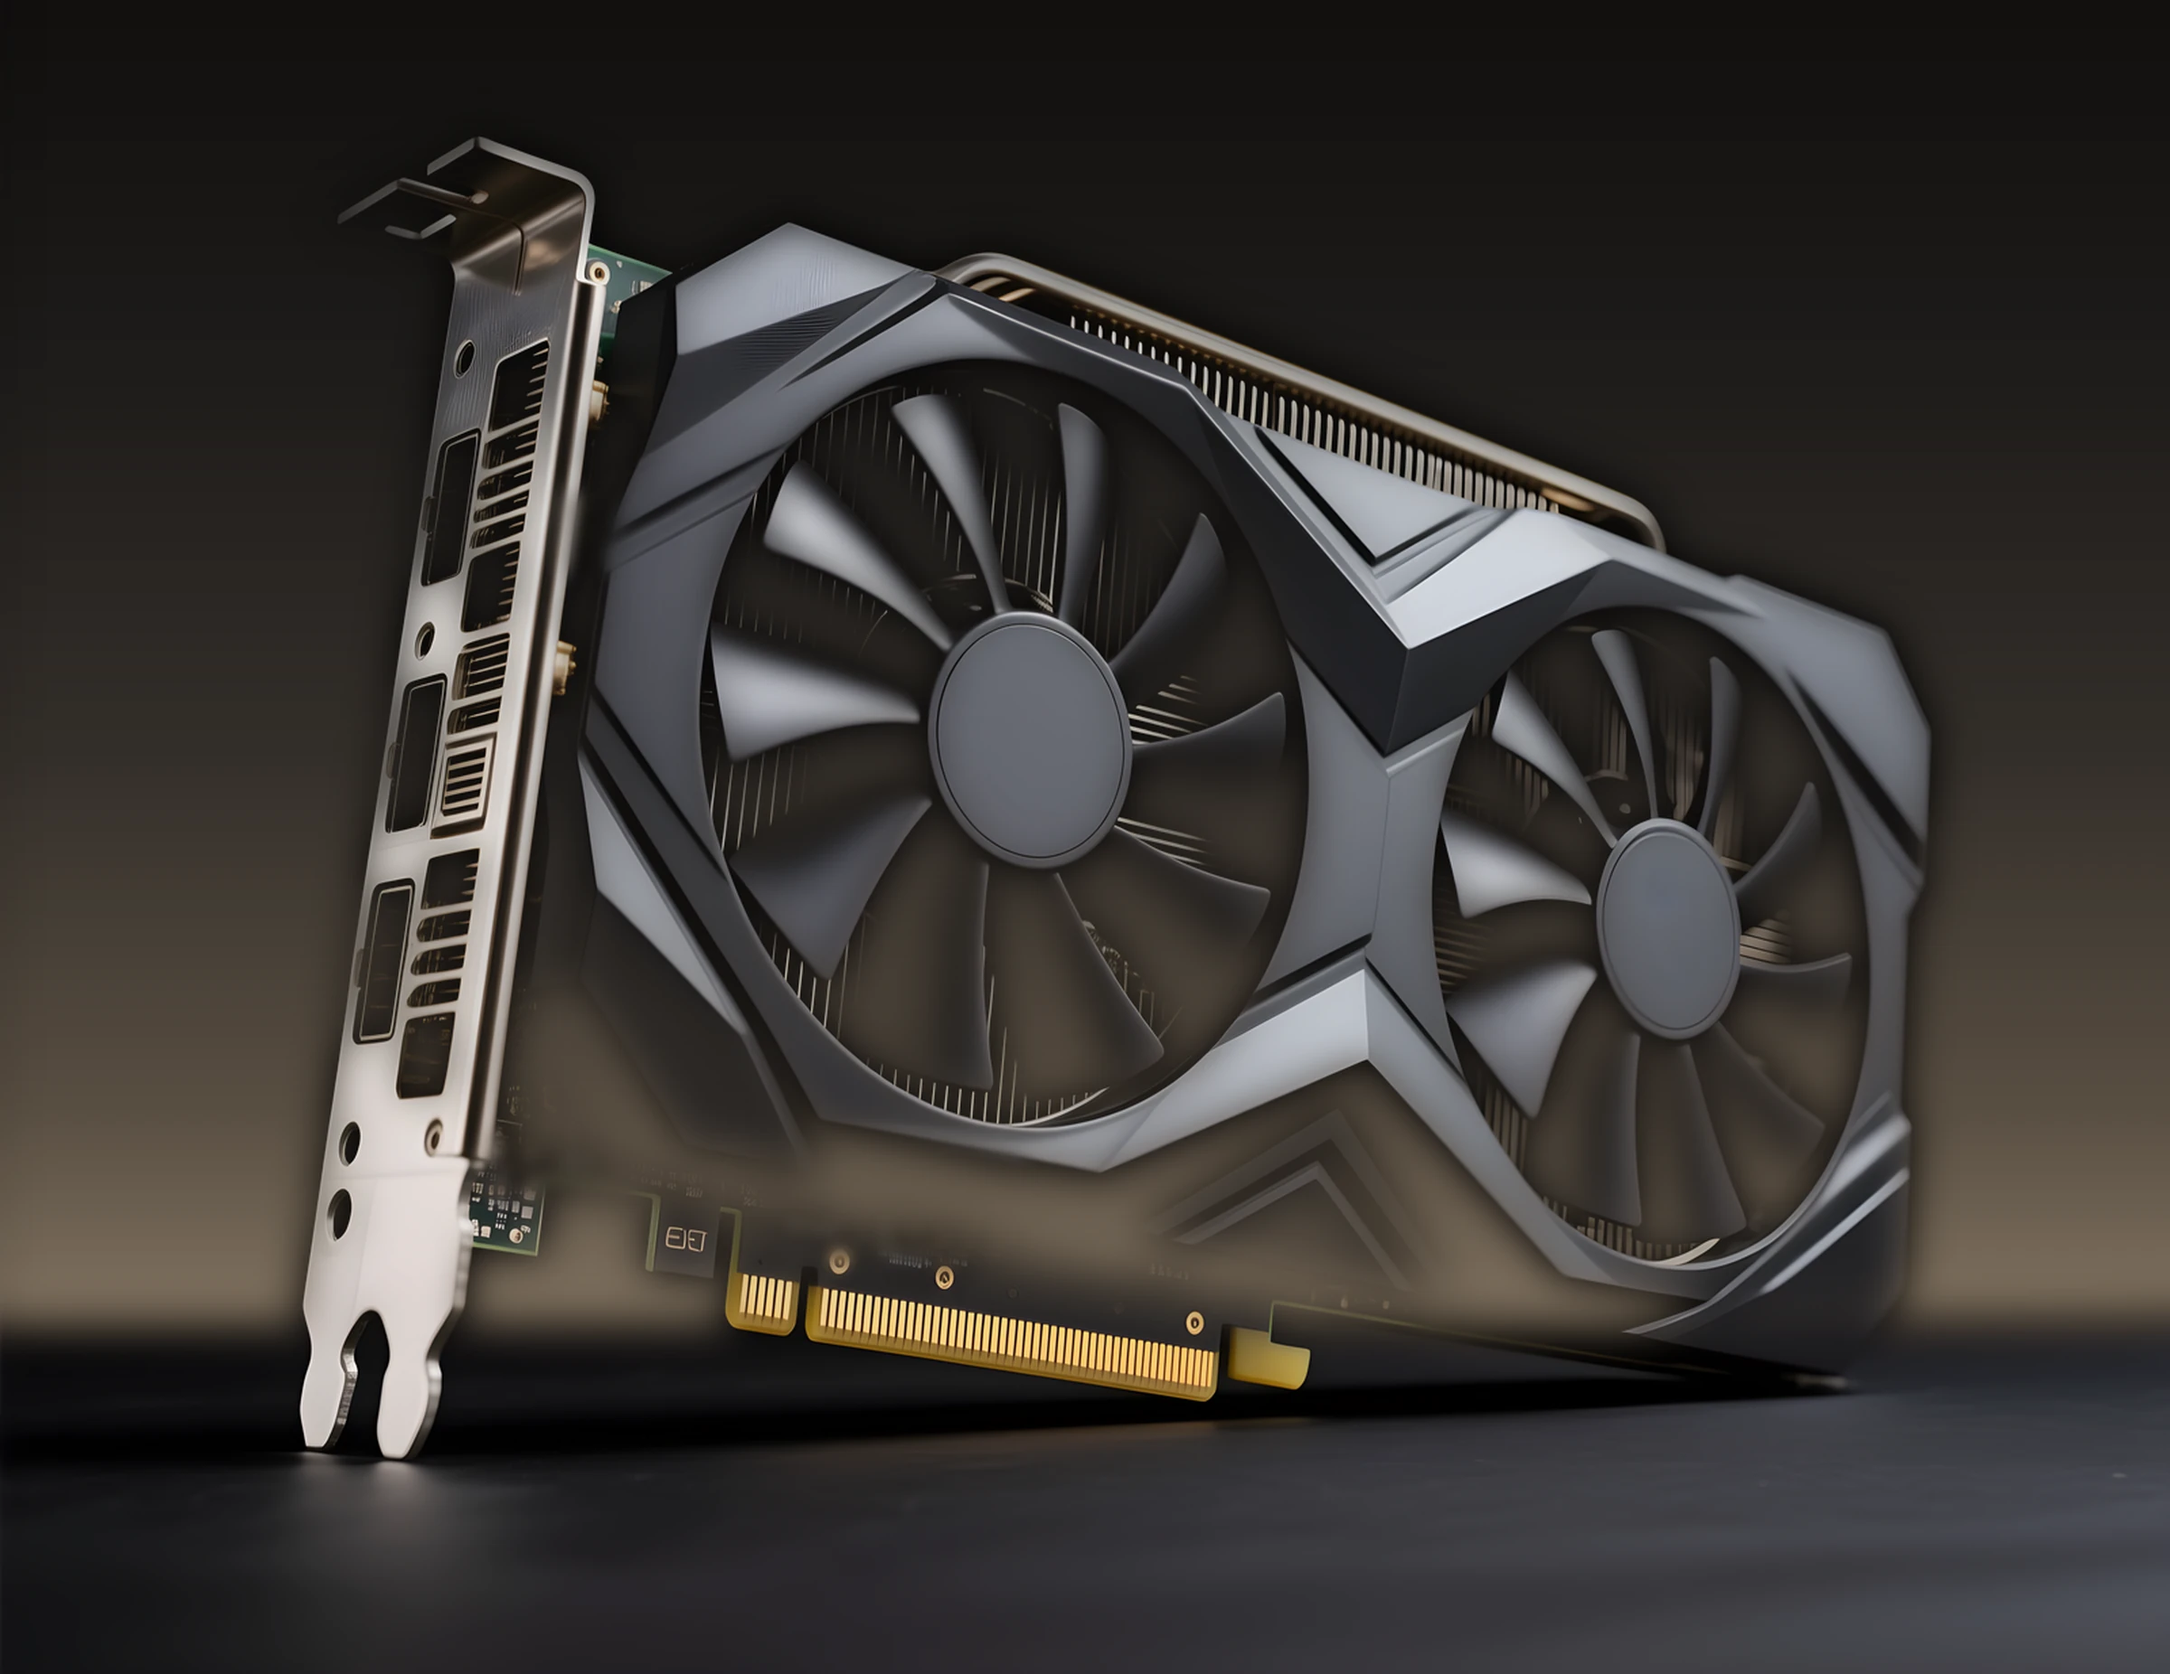
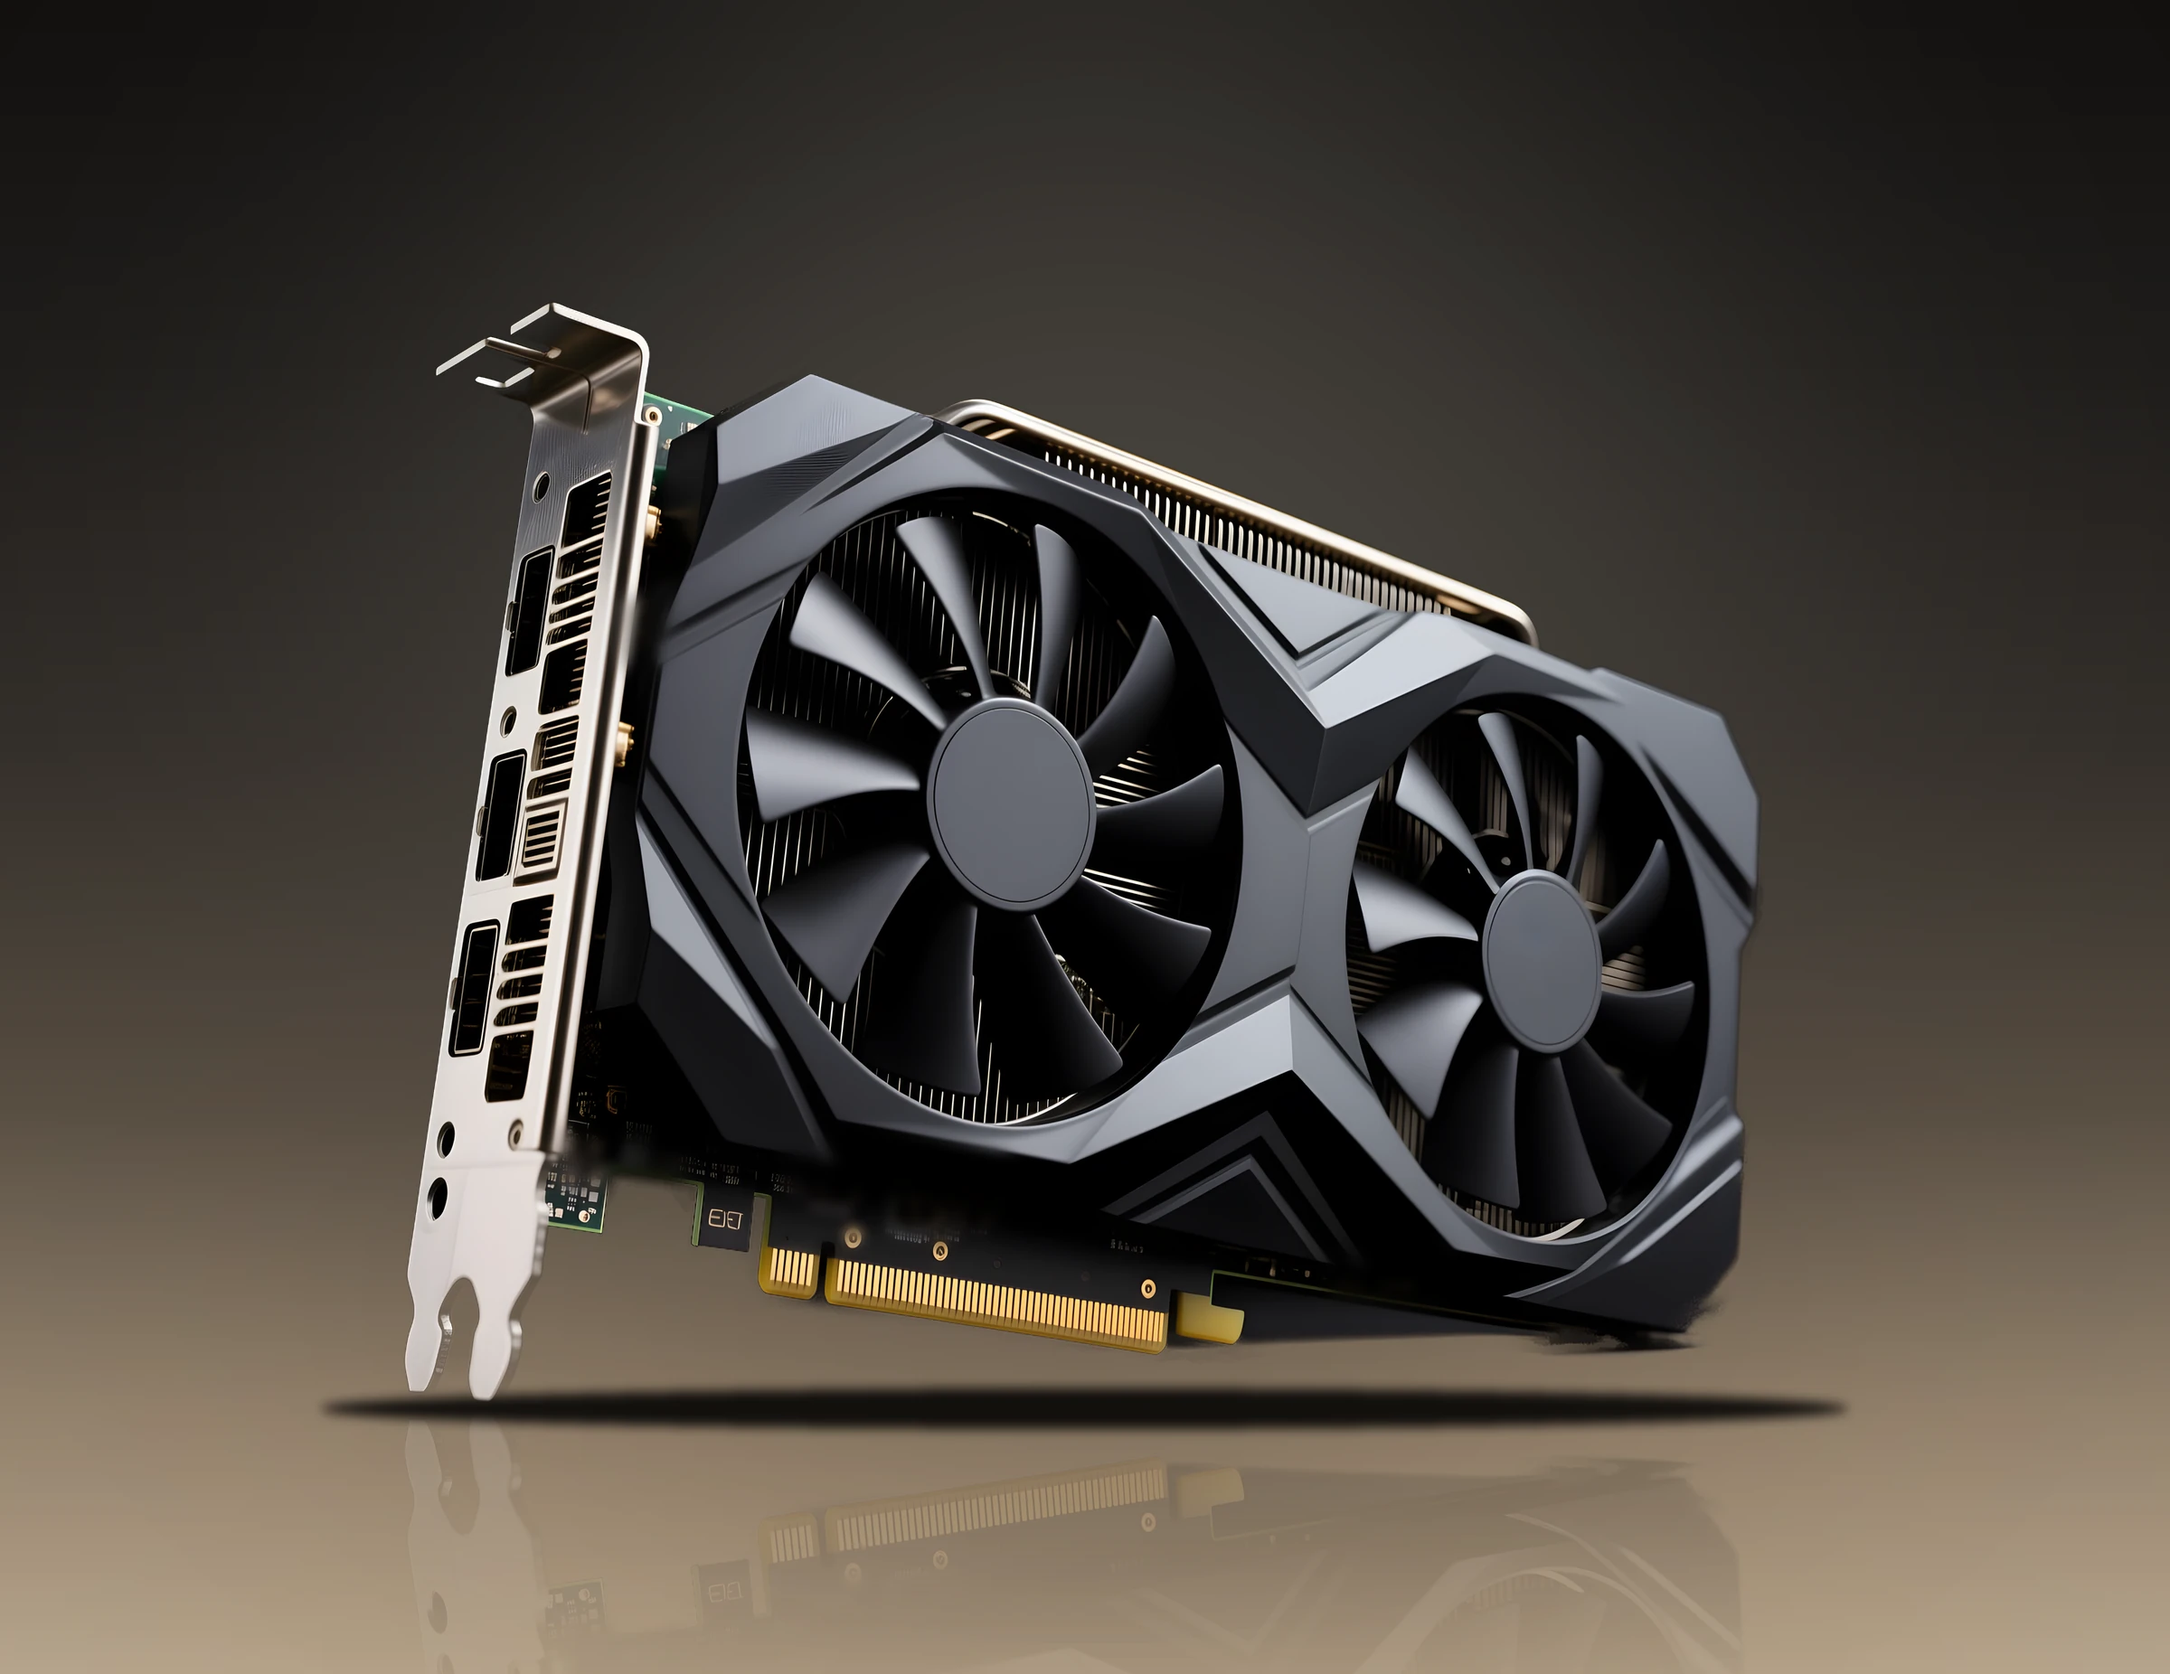
Cut the two dark plates instead of ramping on luminance
The memory and graphics plates went milky: the heatspreaders and the shroud
lost their black and sat behind a haze. Both faults were mine, in the staging,
not in the renders.

sky_swap ramps a mask on luminance -- anything under a ceiling of 34, above the
horizon, is treated as sky and blended toward the backdrop. That held while the
parts were lighter than the background. Measured on these renders it does not:
above the horizon a quarter of the central pixels are pure 0, because a matte
black heatspreader and an unlit shroud photograph exactly as dark as the
seamless behind them. The heatspreaders scored about 17, so the swap read them
as half sky and painted half a gradient over them.

No threshold fixes that, so the fix is not a threshold. Both plates now go
through a u2net matte, which segments the object and keeps every dark face
inside the silhouette. Proofed on magenta first: both come back whole, clean
contacts, no holes.

The module docstring says rembg "loses a near-black heatspreader", and that was
measured, and it was true -- of the old low-key renders, which gave it no edge
anywhere to find. It is not true of the high-key ones. The note is kept as
history rather than deleted, because the reasoning is still worth having.

Separately, and caught while fixing the above: CANVAS was still (1600, 1235)
while WIDTH had been raised to 2400, so every plate was composed at 1600 and
then enlarged. The last commit's "2400" was an upscale carrying no more detail
[…]

diff --git a/tools/image-processing/stage_am4_parts.py b/tools/image-processing/stage_am4_parts.py
@@ -57,10 +57,15 @@ WIDTH = 2400
 # height, measured off a gridded proof. The canvas is one shape for all three --
 # what the page's featureSplit frames already carry -- so the parts come out the
 # same size on screen as each other.
+#: Both plates now CUT rather than sky-swap. The horizons they used to carry
+#: were measured correctly and are kept here as a record; sky_swap itself is
+#: kept for a render that genuinely has a floor worth keeping, which neither of
+#: these has. See cutout() for why the swap could not work on these two.
 JOBS = {
-    "ddr4-pair":   dict(src="ddr4-pair",   horizon=0.841),
-    "gpu-radeon":  dict(src="gpu-radeon",  horizon=0.793),
+    "ddr4-pair":   dict(src="ddr4-pair",  matte="u2net", height=0.84, floor=0.88),
+    "gpu-radeon":  dict(src="gpu-radeon", matte="u2net", height=0.66, floor=0.84),
 }
+RETIRED_HORIZONS = {"ddr4-pair": 0.841, "gpu-radeon": 0.793}
 
 # storage-set is NOT here, and that is a decision rather than an omission.
 #
@@ -79,7 +84,11 @@ JOBS = {
 # image in this section not sharing the backdrop, and it is the one to redo --
 # most likely by photographing three real drives rather than describing them.
 SKIPPED = {"storage-set"}
-CANVAS = (1600, 1235)
+#: Composed at the size it ships at. This was (1600, 1235) while WIDTH was
+#: raised to 2400, which meant every plate was built at 1600 and then blown
+#: up -- a bigger file carrying no more detail. The sources are 5888 wide;
+#: there is no reason to go through a smaller canvas.
+CANVAS = (2400, 1852)
 
 
 def retouch(name, im):
@@ -189,6 +198,53 @@ STORAGE = [
 ]
 
 
+_U2NET = None
+
+
+def cutout(path, name=None):
+    """Matte by segmentation, for parts whose own faces are as black as the sky.
+
+    cut_object thresholds luminance, and sky_swap ramps on it. Both assume the
+    part is brighter than the background. Measured on these renders it is not:
+    above the horizon, a quarter of the central pixels are pure 0, because a
+    matte black heatspreader and an unlit shroud photograph exactly as dark as
+    the seamless behind them. sky_swap's ceiling of 34 therefore read the
+    heatspreaders AS sky and blended half the backdrop over them, which is what
+    shipped and what came back rejected: the modules went milky.
+
+    There is no threshold that fixes that, so this does not use one. u2net
+    segments the object and keeps every dark face inside the silhouette.
+
+    The module docstring says rembg "loses a near-black heatspreader". That was
+    true, and it was measured on the old low-key renders, which had no edge
+    anywhere for it to find. It is not true of these: proofed on magenta, both
+    plates come back whole, with clean contacts and no holes. The note stands as
+    history, not as a current constraint.
+    """
+    global _U2NET
+    from rembg import new_session, remove
+    if _U2NET is None:
+        _U2NET = new_session("u2net")
+
+    im = Image.open(path).convert("RGB")
+    if name:
+        im = retouch(name, im)            # before any resize: radii are in render pixels
+    im.thumbnail((2400, 2400), Image.LANCZOS)
+
+    # Matte on a reduced copy. u2net has a fixed input size, so a larger source
+    # buys nothing but time, and the alpha upsamples cleanly.
+    small = im.copy()
+    small.thumbnail((1400, 1400), Image.LANCZOS)
+    cut = remove(small, session=_U2NET, alpha_matting=True,
+                 alpha_matting_foreground_threshold=250,
+                 alpha_matting_background_threshold=15,
+                 alpha_matting_erode_size=12)
+    alpha = cut.getchannel("A").resize(im.size, Image.LANCZOS)
+    rgba = im.convert("RGBA")
+    rgba.putalpha(alpha)
+    return rgba.crop(alpha.point(lambda v: 255 if v > 8 else 0).getbbox())
+
+
 def cut_object(path, floor=14):
     """Alpha from luminance. A single object on black needs nothing cleverer.
 
@@ -261,7 +317,7 @@ def storage_set(gap=0.030, floor=0.70, widest=0.50):
     print(f"  {out.name:18s} {canvas.size}  {out.stat().st_size // 1024:>4}KB")
 
 
-def stage_cut(name, src, height=0.62, floor=0.80, cx=0.50):
+def stage_cut(name, src, height=0.62, floor=0.80, cx=0.50, matte="lum"):
     """Cut the part off its black ground and stand it on the page's backdrop.
 
     The companion to sky_swap, and the better path when the render HAS no ground
@@ -274,13 +330,14 @@ def stage_cut(name, src, height=0.62, floor=0.80, cx=0.50):
     if not render.exists():
         print(f"  skip {name:13s} ({render.name} not rendered yet)")
         return
-    part = cut_object(render)
+    part = cutout(render, name=src) if matte == "u2net" else cut_object(render)
     W, H = CANVAS
     canvas, _ = studio.compose(
         part, W, H, height=height, floor=floor, cx=cx,
         ground=studio.PLATE_GROUND, halo=(74, 70, 64), halo_at=0.30,
         glow=(150, 104, 60), glow_at=26)
-    canvas = canvas.resize((WIDTH, round(H * WIDTH / W)), Image.LANCZOS)
+    if canvas.width != WIDTH:
+        canvas = canvas.resize((WIDTH, round(H * WIDTH / W)), Image.LANCZOS)
     out = DEST / f"{name}.webp"
     canvas.save(out, "WEBP", quality=90, method=6)
     print(f"  {out.name:18s} {canvas.size}  {out.stat().st_size // 1024:>4}KB")
@@ -309,6 +366,6 @@ if __name__ == "__main__":
     for name, cfg in JOBS.items():
         if only and name not in only:
             continue
-        stage(name, **cfg)
+        stage_cut(name, **cfg)
     if not only or "storage-set" in only:
         storage_set()
